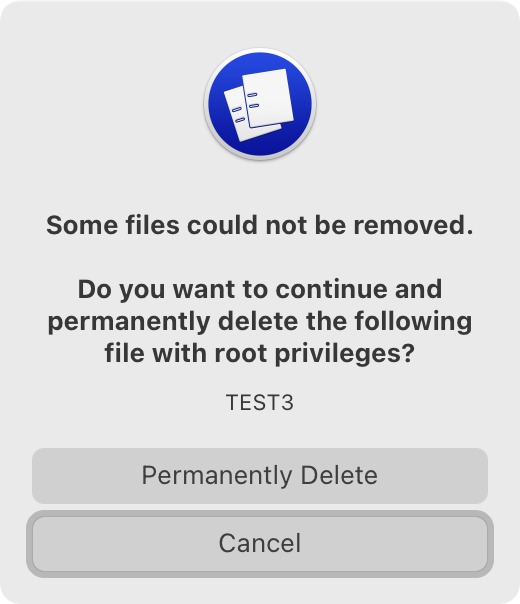
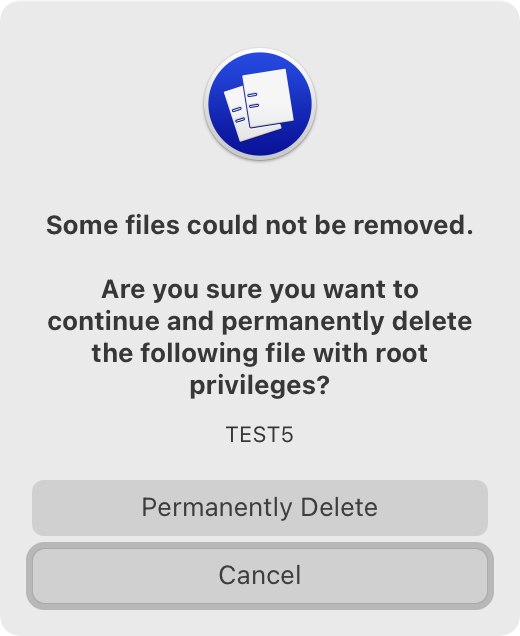
edits

diff --git a/README.md b/README.md
@@ -67,9 +67,14 @@ Move files to the relevant Trash, including iCloud Trash. On volumes without `.T
 
 When using `trashes` on trashed files, the script will call the dependent `put-back` helper (*see below*) that will call Finder to move the selected files back to their original path (if possible). It is also possible to put back nested files that are not in the root of the Trash folder.
 
-Note: using the system API or the Finder (for files without write access) instead of simple `mv` routines is important, because the system's move-to-Trash functionality is needed to properly remove certain filetypes, e.g. for an effective uninstallation of applications containing system or network extensions.
+Note: using the system API or the Finder (for files without write access) instead of simple `mv` routines is important, because the system's move-to-Trash or put-back functionality is needed to properly remove or register certain filetypes, e.g. for an effective uninstallation of applications containing system or network extensions.
 
 Note: `trashes` will delete `.DS_Store` files immediately.
+
+#### `put-back`
+Dependent helper script called by `trashes` when the keyboard shortcut for move-to-trash (usually CMD-DEL) is used on trashed files.
+
+Note: for the same reasons as stated above, `put-back` will use the Finder for restoring individual trashed files to their original location; if you have disabled Finder, `put-back` will launch Finder hidden and in the background, and immediately quit Finder again, so the operation will be barely noticeable.
 
 ### `empty-trashes`
 Empty all Trashes. Use the `--force` argument with an alternate keyboard shortcut, if you want to skip the prompt. The command supports all Trashes, including iCloud Trash, `/System/Volumes/.Trashes/$UID/` and `./Trashes/$UID/` on any mounted & writable volume.
@@ -80,13 +85,6 @@ Note: for the same reasons as stated above, `empty-trashes` will still use the F
 Undo the last move-to-trash operation. The move-to-trash history will not be persistent across reboots.
 
 Note: for the same reasons as stated above, `undo-trashes` will use the Finder for restoring trashed files to their original location; if you have disabled Finder, `undo-trashes` will launch Finder hidden and in the background, and immediately quit Finder again, so the operation will be barely noticeable.
-
-### `put-back`
-Dependent helper script called by `trashes` when the keyboard shortcut for move-to-trash (usually CMD-DEL) is used on trashed files.
-
-Note: for the same reasons as stated above, `put-back` will use the Finder for restoring individual trashed files to their original location; if you have disabled Finder, `put-back` will launch Finder hidden and in the background, and immediately quit Finder again, so the operation will be barely noticeable.
-
-⚠ **Note: put-back functionality for individual trashed files** is not yet implemented.
 
 ### `unlink`
 Permanently delete (unlink) files. Internally, this command uses `rm -rf`. In case the executing user has no write access, files will be removed with `sudo -S rm -rf`, and the user needs to enter his administrator password first. ⚠ As in any situation, please handle permanent file deletions with caution! And, of course, protect important files using the Trash Tools. 😉
@@ -100,7 +98,7 @@ Note: `unlink` will delete `.DS_Store` files immediately.
 
 ## To-do
 * try to increase speed for move-to-trash operations
-* try to increase speed of file protection checks
+* try to increase speed of file protection checks before move-to-trash and unlink
 
 ## Screenshots
 
@@ -110,7 +108,7 @@ Note: `unlink` will delete `.DS_Store` files immediately.
 
 ![sg02](https://raw.githubusercontent.com/JayBrown/Trash-Tools/main/img/02_unprotected.png)
 
-![sg03](https://raw.githubusercontent.com/JayBrown/Trash-Tools/main/img/03_unlink_protected-error.png)
+![sg03](https://raw.githubusercontent.com/JayBrown/Trash-Tools/main/img/03_trashes_protected-error.png)
 
 ![sg04](https://raw.githubusercontent.com/JayBrown/Trash-Tools/main/img/04_empty-trashes.png)
 
